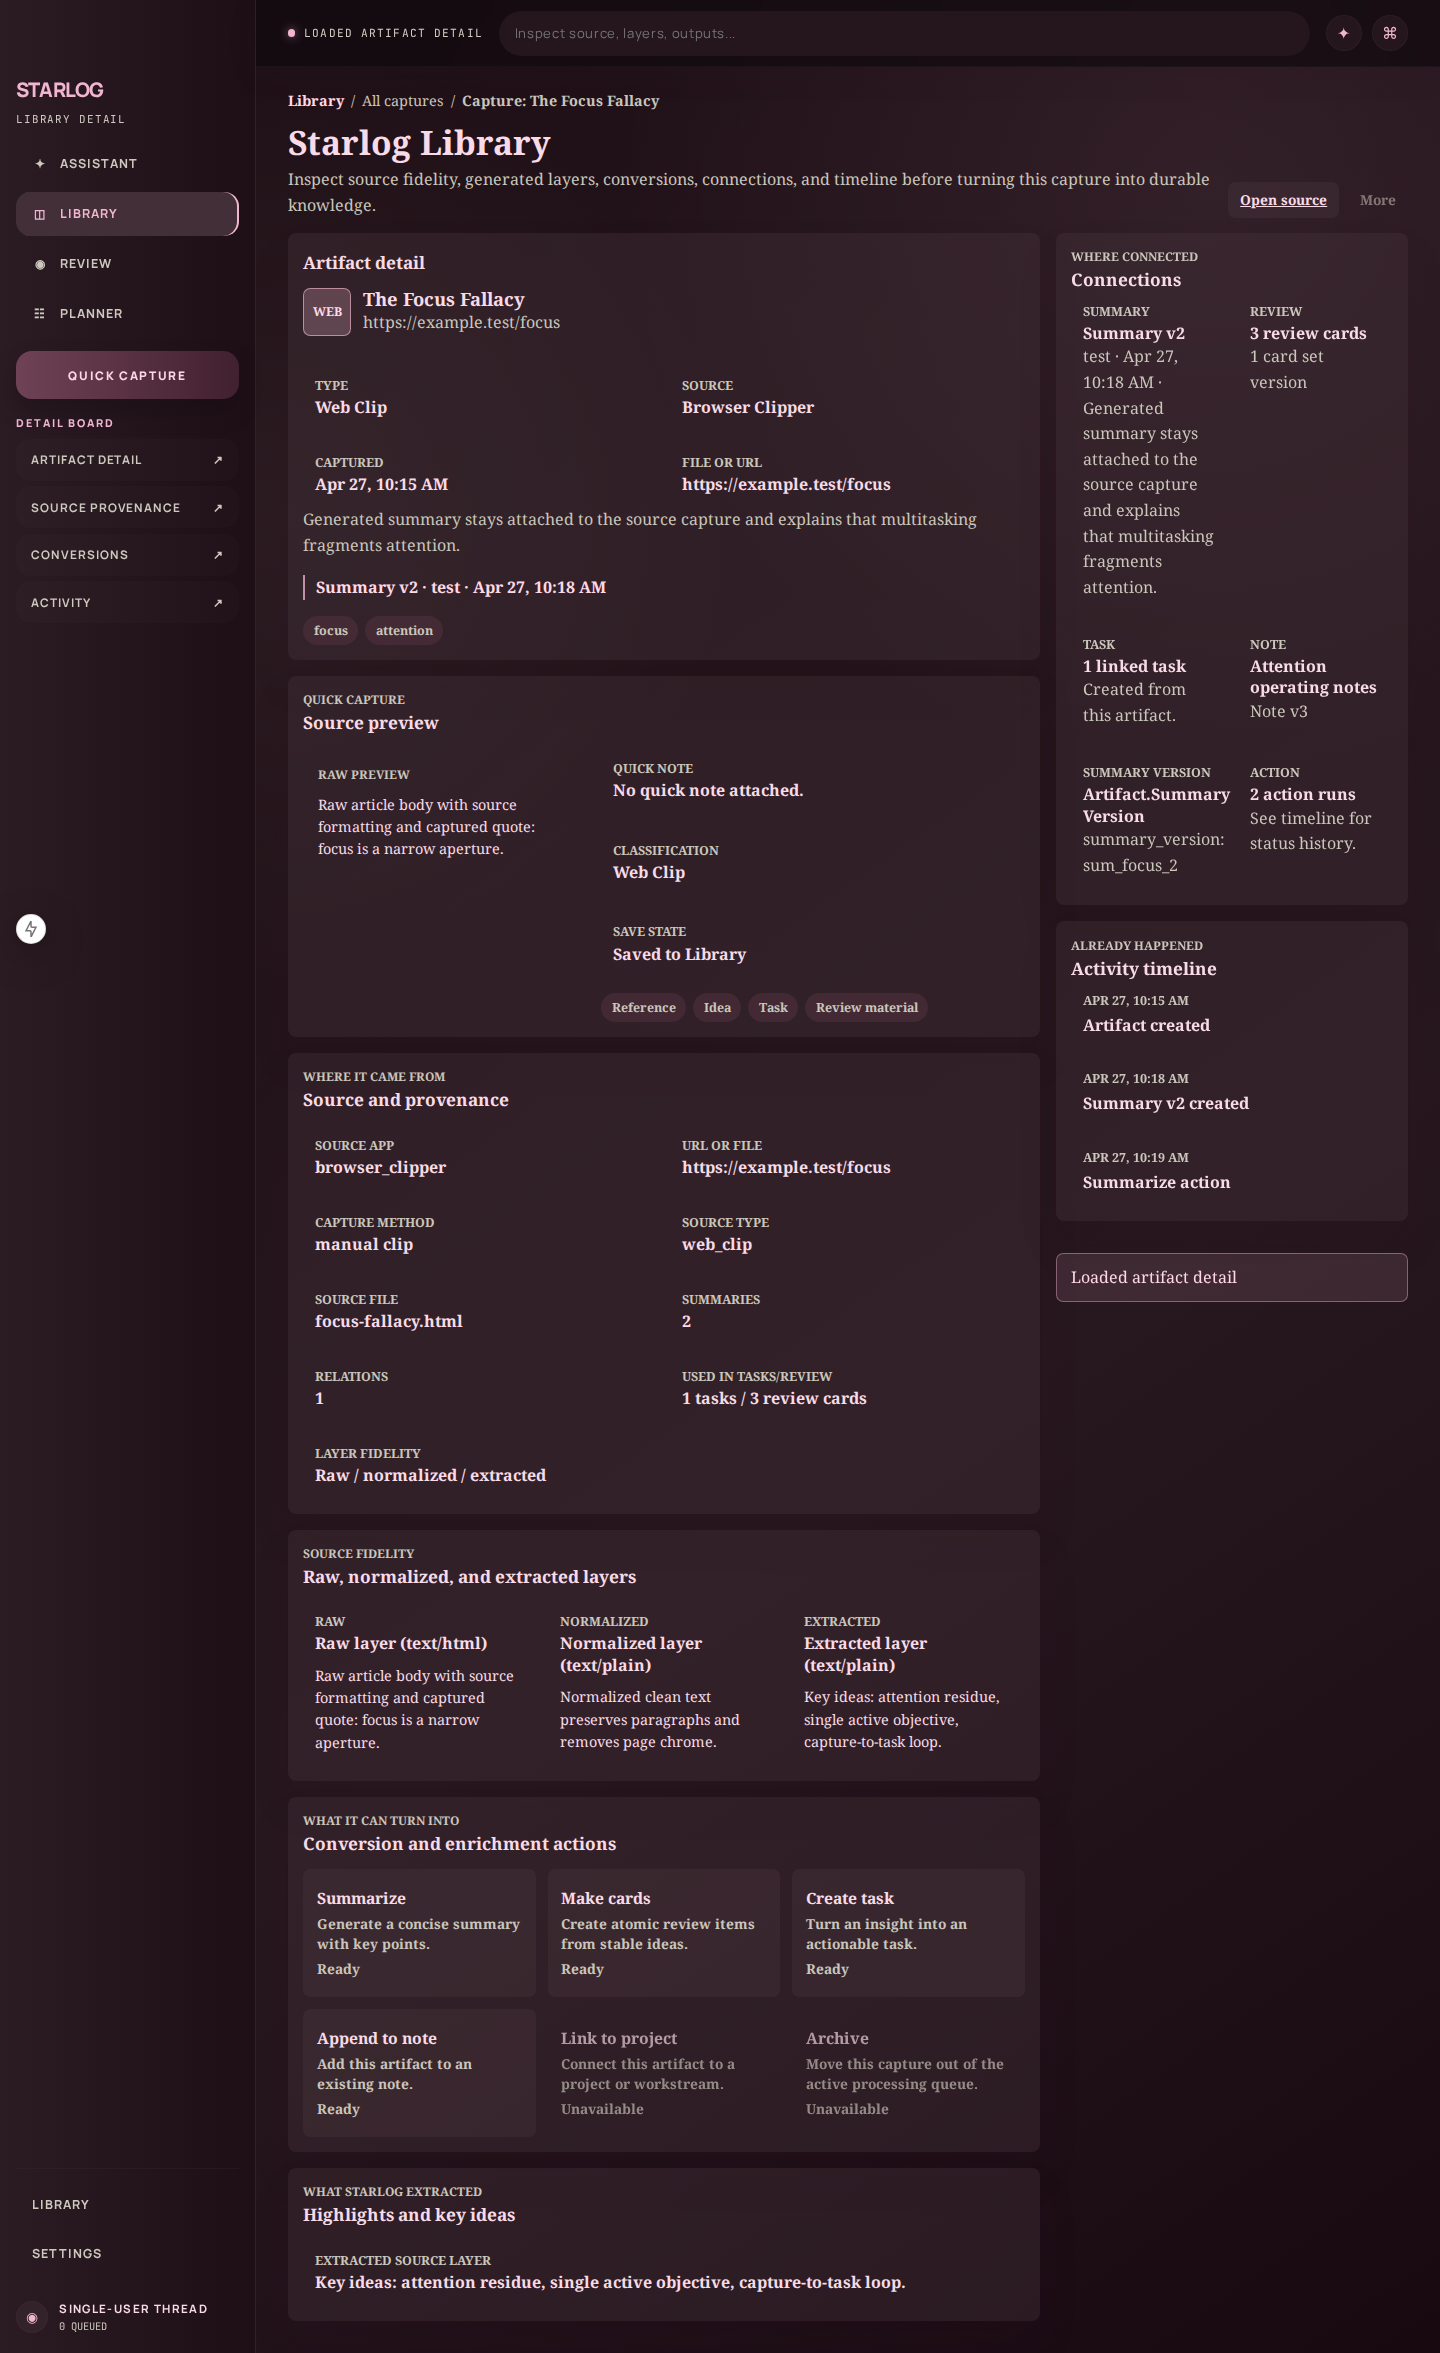
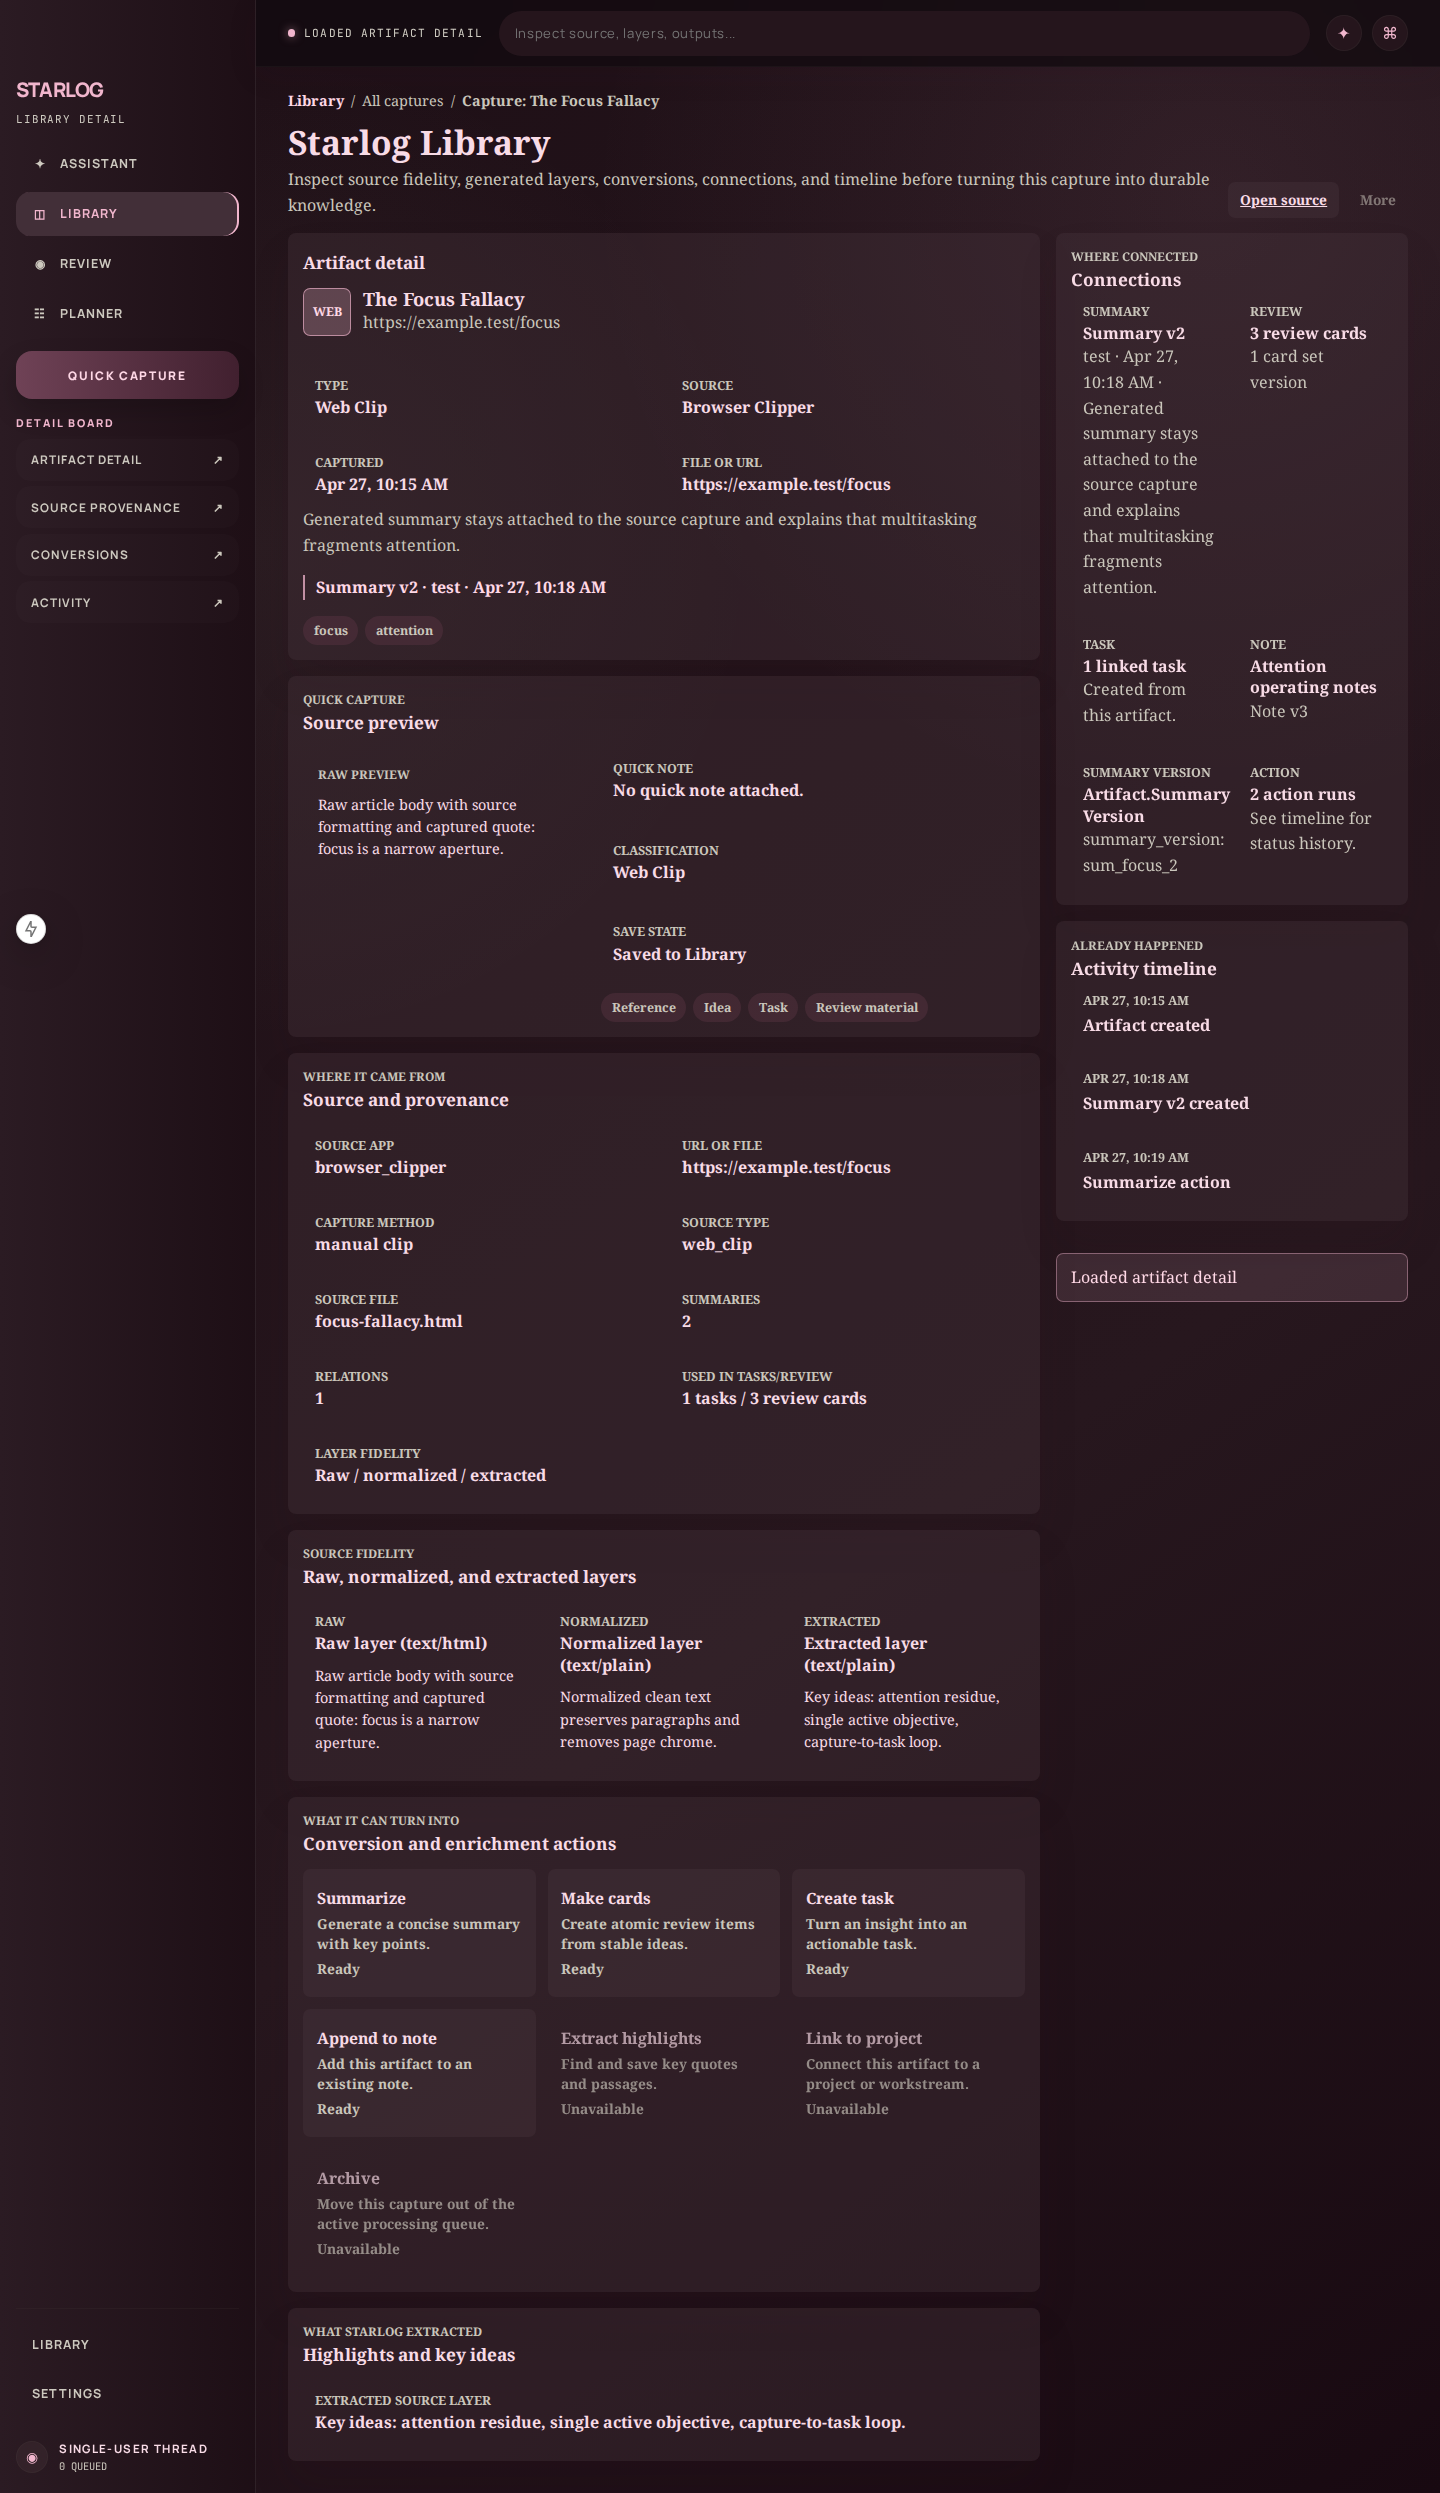
Fix Library pipeline review gaps

diff --git a/apps/web/tests/ui-functional/pwa-library.functional.spec.ts b/apps/web/tests/ui-functional/pwa-library.functional.spec.ts
@@ -350,6 +350,7 @@ test("PWA library renders the capture pipeline with mocked API data", async ({ p
   await expect(page.getByRole("heading", { name: "Inbox / Unprocessed captures" })).toBeVisible();
   await expect(page.getByRole("heading", { name: "Recent artifacts" })).toBeVisible();
   await expect(page.getByRole("heading", { name: "Notes & saved items" })).toBeVisible();
+  await expect(page.getByText("Linked/generated outputs")).toBeVisible();
   await expect(page.getByText(/observatory|runtime/i)).toHaveCount(0);
 
   const inboxSection = page.getByRole("region", { name: "Inbox / Unprocessed captures" });
@@ -365,6 +366,8 @@ test("PWA library renders the capture pipeline with mocked API data", async ({ p
   await expect(focusCapture.getByText("0 linked")).toBeVisible();
 
   await expect(artifactsSection.getByRole("heading", { name: "Focus Fallacy summary" })).toBeVisible();
+  await expect(artifactsSection.getByRole("heading", { name: "The Focus Fallacy", exact: true })).toHaveCount(0);
+  await expect(artifactsSection.getByRole("heading", { name: "Walk reflection", exact: true })).toHaveCount(0);
   await expect(artifactsSection.getByText("Generated").first()).toBeVisible();
   await expect(notesSection.getByRole("heading", { name: "Attention operating notes" })).toBeVisible();
 
@@ -376,6 +379,15 @@ test("PWA library renders the capture pipeline with mocked API data", async ({ p
   await expect(page.getByRole("heading", { name: "Suggestions" })).toBeVisible();
 
   await page.screenshot({ path: `${screenshotDir}/pwa-library-main.png`, fullPage: true });
+  await page.setViewportSize({ width: 390, height: 844 });
+  await expect(page.getByRole("heading", { name: "Starlog Library" })).toBeVisible();
+  await expect(page.getByRole("navigation", { name: "Library sections" })).toBeVisible();
+  await expect(page.getByRole("button", { name: "Make cards" }).first()).toBeVisible();
+  await page.screenshot({ path: `${screenshotDir}/pwa-library-main-mobile.png`, fullPage: true });
+  await expect(await page.getByTestId("library-surface").evaluate((surface) => {
+    const rect = surface.getBoundingClientRect();
+    return rect.left >= 0 && rect.right <= document.documentElement.clientWidth + 1;
+  })).toBe(true);
 
   await page.getByRole("button", { name: "Make cards" }).first().click();
   expect(actionRequests).toEqual([expect.objectContaining({ action: "cards" })]);
@@ -659,6 +671,7 @@ test("PWA library detail renders provenance, layers, connections, and conversion
 
   await expect(page.getByRole("button", { name: /Create task/ })).toBeVisible();
   await expect(page.getByRole("button", { name: /Append to note/ })).toBeVisible();
+  await expect(page.getByRole("button", { name: /Extract highlights/ })).toBeDisabled();
   await expect(page.getByRole("button", { name: /Link to project/ })).toBeDisabled();
   await expect(page.getByRole("button", { name: /Archive/ })).toBeDisabled();
   await page.screenshot({ path: `${screenshotDir}/pwa-library-artifact-detail.png`, fullPage: true });

diff --git a/apps/web/app/library/page.tsx b/apps/web/app/library/page.tsx
@@ -395,7 +395,12 @@ function LibraryPageContent() {
   const inboxEntries = filteredEntries.filter((entry) => isInboxState(entry.processingState));
   const recentArtifactIds = new Set((summary?.recent_artifacts || []).map((artifact) => artifact.id));
   const recentArtifacts = filteredEntries
-    .filter((entry) => !isInboxState(entry.processingState) || recentArtifactIds.has(entry.id))
+    .filter((entry) => !isInboxState(entry.processingState))
+    .sort((left, right) => {
+      const leftListed = recentArtifactIds.has(left.id) ? 0 : 1;
+      const rightListed = recentArtifactIds.has(right.id) ? 0 : 1;
+      return leftListed - rightListed || right.timestamp.localeCompare(left.timestamp);
+    })
     .slice(0, 6);
   const notesAndSavedItems = filteredNotes.slice(0, 6);
   const unprocessedCount = summary ? countByKey(summary, "unprocessed_artifacts") : inboxEntries.length;
@@ -476,7 +481,7 @@ function LibraryPageContent() {
         </>
       )}
     >
-      <div className={styles.surface}>
+      <div className={styles.surface} data-testid="library-surface">
         <header className={styles.header}>
           <div>
             <h1>Starlog Library</h1>
@@ -499,9 +504,9 @@ function LibraryPageContent() {
 
         <section className={styles.stats} aria-label="Library stats">
           <StatChip label="Unprocessed captures" value={unprocessedCount} detail={`${needAttentionCount} need attention`} />
-          <StatChip label="Recent artifacts" value={summary?.recent_artifacts.length ?? recentArtifacts.length} detail={`${linkedOutputs} generated or linked`} />
+          <StatChip label="Recent artifacts" value={recentArtifacts.length} detail={`${linkedOutputs} generated or linked`} />
           <StatChip label="Notes & saved items" value={summary?.notes.total ?? notesAndSavedItems.length} detail={`${summary?.notes.recent_count ?? notesAndSavedItems.length} updated recently`} />
-          <StatChip label="Linked to projects" value={linkedOutputs} detail="Across projects, notes, tasks, and review" />
+          <StatChip label="Linked/generated outputs" value={linkedOutputs} detail="Summaries, cards, tasks, and notes" />
         </section>
 
         <div className={styles.layout}>

diff --git a/apps/web/app/library/library.module.css b/apps/web/app/library/library.module.css
@@ -1,6 +1,8 @@
 .surface {
   display: grid;
   gap: 0.9rem;
+  min-width: 0;
+  max-width: 100%;
 }
 
 .header {
@@ -8,6 +10,7 @@
   grid-template-columns: minmax(0, 1fr) auto;
   gap: 1rem;
   align-items: end;
+  min-width: 0;
 }
 
 .kicker,
@@ -139,15 +142,18 @@
   grid-template-columns: minmax(0, 1fr) 21rem;
   gap: 1rem;
   align-items: start;
+  min-width: 0;
 }
 
 .main {
   display: grid;
   gap: 1rem;
+  min-width: 0;
 }
 
 .section,
 .railCard {
+  min-width: 0;
   border: 1px solid var(--line);
   border-radius: 0.5rem;
   background: color-mix(in srgb, var(--panel), transparent 7%);
@@ -217,6 +223,7 @@
   color: var(--text);
   font-size: 1rem;
   line-height: 1.3;
+  overflow-wrap: anywhere;
 }
 
 .itemTitle a {
@@ -240,6 +247,7 @@
   color: var(--muted);
   font-size: 0.84rem;
   line-height: 1.4;
+  overflow-wrap: anywhere;
 }
 
 .statusPill {
@@ -300,6 +308,7 @@
   display: grid;
   grid-template-columns: repeat(3, minmax(0, 1fr));
   gap: 0.75rem;
+  min-width: 0;
 }
 
 .artifactCard,
@@ -327,6 +336,7 @@
   top: 1rem;
   display: grid;
   gap: 0.75rem;
+  min-width: 0;
 }
 
 .railCard {

diff --git a/apps/web/app/library/library-detail-view.tsx b/apps/web/app/library/library-detail-view.tsx
@@ -214,6 +214,14 @@ const DEFAULT_ACTIONS: DetailAction[] = [
     disabled_reason: "Detail action availability is not recorded.",
   },
   {
+    action: "extract_highlights",
+    label: "Extract highlights",
+    description: "Find and save key quotes and passages.",
+    supported: false,
+    enabled: false,
+    disabled_reason: "Extract highlights is not supported by the artifact action backend yet.",
+  },
+  {
     action: "link",
     label: "Link to project",
     description: "Connect this artifact to a project or workstream.",
